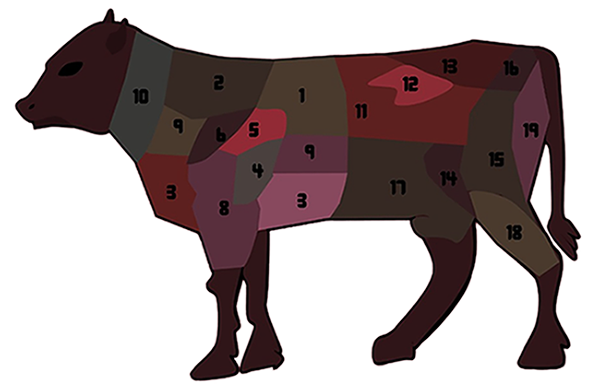
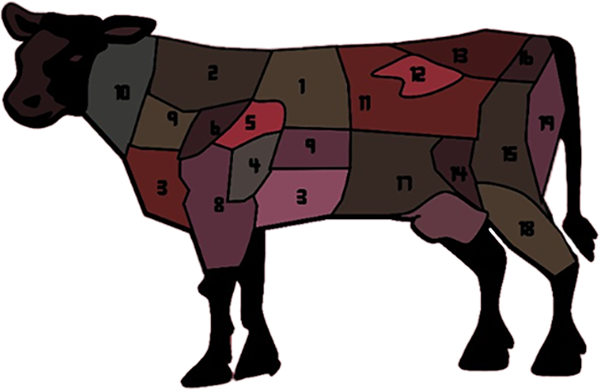
adding lamb and chicken

diff --git a/my-front/src/cmp/parts/chicken/chicken.jsx b/my-front/src/cmp/parts/chicken/chicken.jsx
@@ -1,0 +1,105 @@
+import React, { useState, useEffect } from "react";
+import chickenImage from "../../../assets/chicken.png";
+import styles from "./chicken.module.css";
+// import meatInfo from "./meatInfoTemp";
+
+const Chicken = () => {
+  const [meatState, setMeatState] = useState([]);
+  const [markedMeat, setMarkedMeat] = useState([]);
+  useEffect(async () => {
+    await fetch("http://localhost:3030/meats", { credentials: "include" })
+      .then((res) => res.json())
+      .then((meats) => setMeatState({ meats }))
+      .catch((err) => {
+        console.log(err);
+      });
+    //console.log("meats list ", meats);
+  });
+  /*componentDidMount() {
+    this.getMeats();
+    state = {
+    meats: null,
+  };
+  }*/
+  /*const getMeats = async () => {
+    await fetch("http://localhost:3030/meats", { credentials: "include" })
+      .then((res) => res.json())
+      .then((meats) => setMeatState({ meats }))
+      .catch((err) => {
+        console.log(err);
+      });
+    console.log("meats list ", meats);
+  };*/
+
+  const onHoverDiv = async (el) => {
+    // console.log("something in the console", el.target.id);
+    if (meatState.meats) {
+      document.getElementById("name").classList.remove(`${styles.hide}`);
+      document.getElementById("desc").classList.remove(`${styles.hide}`);
+      const meatInfo = getMeatInfo(el.target.id);
+      console.log(meatInfo);
+      if (meatInfo) {
+        document.getElementById("name").innerText = meatInfo.meatName;
+        document.getElementById("desc").innerText = meatInfo.meatDescription;
+        setMarkedMeat(meatInfo);
+        console.log("afterSetMeatInfo ", markedMeat);
+      } else console.log("please hover over exist meat");
+      // <div>Hoveringgggg</div>;
+    }
+  };
+  const outHoverDiv = (el) => {
+    if (meatState.meats) {
+      //document.getElementById("name").classList.add(`${styles.hide}`);
+      document.getElementById("desc").classList.add(`${styles.hide}`);
+      setMarkedMeat("");
+      document.getElementById("name").innerText =
+        "רחף עם העכבר מעל לחלק מסויים לפירוט אודותיו";
+      document.getElementById("desc").innerText = "";
+    }
+  };
+  const getMeatInfo = (meatName) => {
+    console.log("should print the meats array ", meatState.meats);
+    const result = meatState.meats.filter((meat) => meat.meatName === meatName);
+    console.log("RES ", result);
+    if (Object.keys(result).length > 0) {
+      console.log("result ", result);
+      const relevantResult = {
+        meatName: result[0].meatName,
+        meatDescription: result[0].meatDescription,
+      };
+      console.log("relevant result ", relevantResult);
+      return relevantResult;
+    } else console.log("error");
+
+    //console.log("miao ", result);
+  };
+
+  return (
+    <div className={styles.meatMap}>
+      <img
+        src={chickenImage}
+        useMap="#beefIt"
+        alt="Chicken Image"
+        className={styles.chickenImage}
+      ></img>
+      <map name="chickenIt">
+        <div>
+          <h1 id="name">רחף עם העכבר מעל לחלק מסויים</h1>
+          <div id="desc" className={styles.hide}></div>
+        </div>
+
+        <area
+          shape="poly"
+          coords="136,31,108,129,136,161,164,104,173,50"
+          className=""
+          onMouseOver={onHoverDiv}
+          onMouseOut={outHoverDiv}
+          href=""
+          id="חזה עוף"
+          alt="חזה עוף"
+        ></area>
+      </map>
+    </div>
+  );
+};
+export default Chicken;

diff --git a/my-front/src/cmp/parts/lamb/lamb.jsx b/my-front/src/cmp/parts/lamb/lamb.jsx
@@ -1,0 +1,105 @@
+import React, { useState, useEffect } from "react";
+import lambImage from "../../../assets/lamb.png";
+import styles from "./lamb.module.css";
+// import meatInfo from "./meatInfoTemp";
+
+const Lamb = () => {
+  const [meatState, setMeatState] = useState([]);
+  const [markedMeat, setMarkedMeat] = useState([]);
+  useEffect(async () => {
+    await fetch("http://localhost:3030/meats", { credentials: "include" })
+      .then((res) => res.json())
+      .then((meats) => setMeatState({ meats }))
+      .catch((err) => {
+        console.log(err);
+      });
+    //console.log("meats list ", meats);
+  });
+  /*componentDidMount() {
+    this.getMeats();
+    state = {
+    meats: null,
+  };
+  }*/
+  /*const getMeats = async () => {
+    await fetch("http://localhost:3030/meats", { credentials: "include" })
+      .then((res) => res.json())
+      .then((meats) => setMeatState({ meats }))
+      .catch((err) => {
+        console.log(err);
+      });
+    console.log("meats list ", meats);
+  };*/
+
+  const onHoverDiv = async (el) => {
+    // console.log("something in the console", el.target.id);
+    if (meatState.meats) {
+      document.getElementById("name").classList.remove(`${styles.hide}`);
+      document.getElementById("desc").classList.remove(`${styles.hide}`);
+      const meatInfo = getMeatInfo(el.target.id);
+      console.log(meatInfo);
+      if (meatInfo) {
+        document.getElementById("name").innerText = meatInfo.meatName;
+        document.getElementById("desc").innerText = meatInfo.meatDescription;
+        setMarkedMeat(meatInfo);
+        console.log("afterSetMeatInfo ", markedMeat);
+      } else console.log("please hover over exist meat");
+      // <div>Hoveringgggg</div>;
+    }
+  };
+  const outHoverDiv = (el) => {
+    if (meatState.meats) {
+      //document.getElementById("name").classList.add(`${styles.hide}`);
+      document.getElementById("desc").classList.add(`${styles.hide}`);
+      setMarkedMeat("");
+      document.getElementById("name").innerText =
+        "רחף עם העכבר מעל לחלק מסויים לפירוט אודותיו";
+      document.getElementById("desc").innerText = "";
+    }
+  };
+  const getMeatInfo = (meatName) => {
+    console.log("should print the meats array ", meatState.meats);
+    const result = meatState.meats.filter((meat) => meat.meatName === meatName);
+    console.log("RES ", result);
+    if (Object.keys(result).length > 0) {
+      console.log("result ", result);
+      const relevantResult = {
+        meatName: result[0].meatName,
+        meatDescription: result[0].meatDescription,
+      };
+      console.log("relevant result ", relevantResult);
+      return relevantResult;
+    } else console.log("error");
+
+    //console.log("miao ", result);
+  };
+
+  return (
+    <div className={styles.meatMap}>
+      <img
+        src={lambImage}
+        useMap="#beefIt"
+        alt="Lamb Image"
+        className={styles.lambImage}
+      ></img>
+      <map name="lambIt">
+        <div>
+          <h1 id="name">רחף עם העכבר מעל לחלק מסויים</h1>
+          <div id="desc" className={styles.hide}></div>
+        </div>
+
+        <area
+          shape="poly"
+          coords="136,31,108,129,136,161,164,104,173,50"
+          className=""
+          onMouseOver={onHoverDiv}
+          onMouseOut={outHoverDiv}
+          href=""
+          id="כתף טלה"
+          alt="כתף טלה"
+        ></area>
+      </map>
+    </div>
+  );
+};
+export default Lamb;

diff --git a/my-front/src/cmp/home.jsx b/my-front/src/cmp/home.jsx
@@ -1,6 +1,8 @@
 import React, { Component } from "react";
 import { NavLink } from "react-router-dom";
-import Beef from "./parts/beef";
+import Beef from "./parts/beef/beef";
+import Chicken from "./parts/chicken/chicken";
+import Lamb from "./parts/lamb/lamb";
 //import Roulette from "./roulette/roulette";
 
 // const Home = () => {
@@ -11,9 +13,16 @@ export class Home extends Component {
   render() {
     return (
       <div dir="rtl">
-        <h1 >home page</h1>
-        <NavLink className="rndMealsLink" to={`/roulette/`}> לחץ כדי לעבור גלגל של מנות רנדומליות</NavLink>
-        <Beef></Beef>
+        <h1>home page</h1>
+        <NavLink className="rndMealsLink" to={`/roulette/`}>
+          {" "}
+          לחץ כדי לעבור גלגל של מנות רנדומליות
+        </NavLink>
+        {
+          //<Beef>
+          //<Lamb></Lamb>
+        }
+        <Chicken></Chicken>
       </div>
     );
   }

diff --git a/seeds.js b/seeds.js
@@ -35,7 +35,7 @@ const meat = {
   meatDescription:
     "נתח בעל עובי בינוני, מאופיין בשיוש של שומן ובמרכזו “עין” מרכזית של שומן, המקנה לו צורה של פרח. הוא נמצא בחלקה הקדמי של הבהמה. האנטריקוט מתאים לסטייקים בכל העוביים, לצלייה קצרה ויבשה בנתח אחד, או להכנה על גריל בנתח אחד",
   meatNumber: "1",
-  meatPricePerOneKg: "150-200",
+  meatImage: [],
 };
 
 //-- -- -- -- --JSON FOR REVIEW INPUTS-- -- -- -- -- -- --

diff --git a/my-front/src/cmp/parts/chicken/chicken.module.css b/my-front/src/cmp/parts/chicken/chicken.module.css
@@ -1,0 +1,16 @@
+.hide {
+  /*display: none;*/
+  visibility: hidden;
+}
+.numberTen:hover + .hide {
+  display: block;
+}
+.meatMap {
+  text-align: center;
+  color: white;
+}
+.chickenImage {
+  /*width: 600px;
+  height: 390px;*/
+  background-color: rgba(219, 25, 25, 0.151);
+}

diff --git a/my-front/src/cmp/parts/lamb/lamb.module.css b/my-front/src/cmp/parts/lamb/lamb.module.css
@@ -1,0 +1,16 @@
+.hide {
+  /*display: none;*/
+  visibility: hidden;
+}
+.numberTen:hover + .hide {
+  display: block;
+}
+.meatMap {
+  text-align: center;
+  color: white;
+}
+.lambImage {
+  /* width: 600px;
+  height: 390px;*/
+  background-color: rgba(219, 25, 25, 0.151);
+}

diff --git a/my-front/src/cmp/parts/beef/beef.jsx b/my-front/src/cmp/parts/beef/beef.jsx
@@ -1,5 +1,5 @@
 import React, { useState, useEffect } from "react";
-import beefImage from "../../assets/newbeef.png";
+import beefImage from "../../../assets/beef.png";
 import styles from "./beef.module.css";
 // import meatInfo from "./meatInfoTemp";
 
